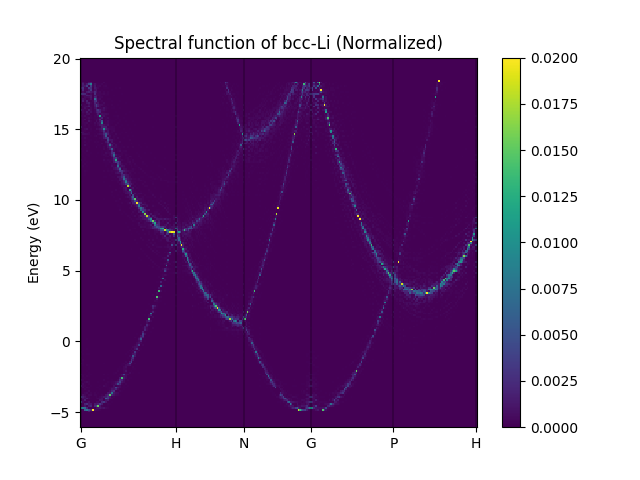
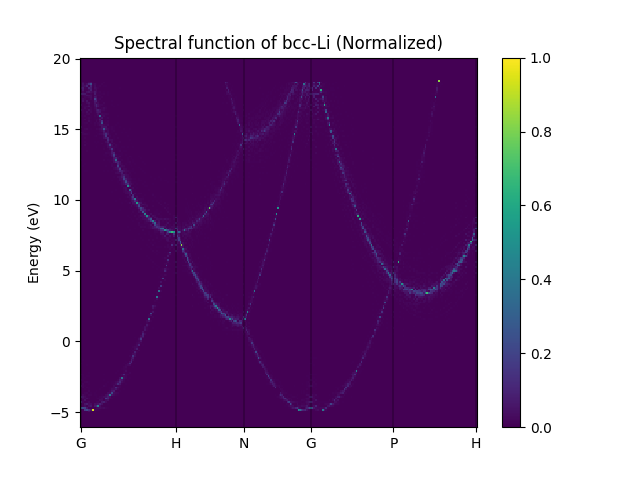
:books: updated README

diff --git a/README.md b/README.md
@@ -85,7 +85,7 @@ def main():
     range_omega = [-6 * Energy.EV["->"], 20 * Energy.EV["->"]]
     omega_array = np.linspace(range_omega[0] , range_omega[1], n_omega)
     
-    # Calculate a spectral function
+    # Calculate a spectral function with normalization
     spectrum = electron_phonon.calculate_spectrum_over_range(omega_array, normalize=True)
     
     y, x = np.meshgrid(omega_array, k_path.minor_scales)
@@ -93,7 +93,7 @@ def main():
     fig = plt.figure()
     ax = fig.add_subplot(111)
     
-    mappable = ax.pcolormesh(x, y * Energy.EV["<-"], spectrum / Energy.EV["<-"])
+    mappable = ax.pcolormesh(x, y * Energy.EV["<-"], spectrum)
     
     for x0 in k_path.major_scales:
         ax.axvline(x=x0, color="black", linewidth=0.3)
@@ -105,7 +105,7 @@ def main():
     ax.set_title("Spectral function of bcc-Li (Normalized)")
     
     fig.colorbar(mappable, ax=ax)
-    mappable.set_clim(0.00, 0.02)
+    mappable.set_clim(0.00, 1.0)
 
     fig.savefig("spectrum.png")
 
